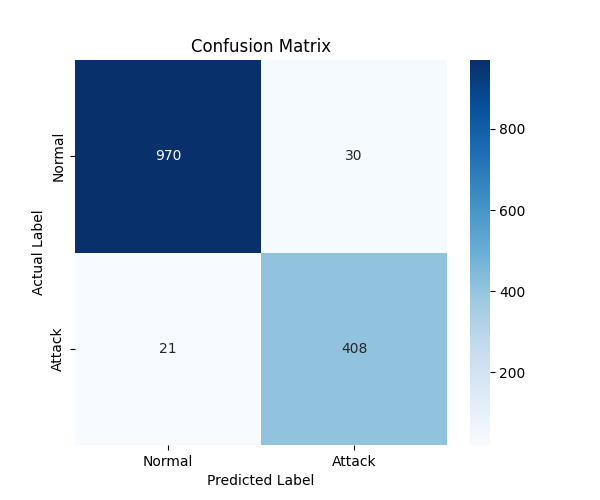
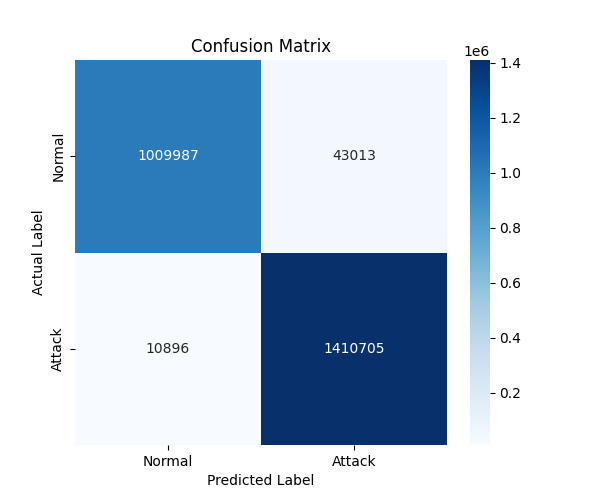
feat: add generated parquet datasets for network traffic analysis

diff --git a/Machine Learnign/data_loader.py b/Machine Learnign/data_loader.py
@@ -2,34 +2,61 @@ import pandas as pd
 from pathlib import Path
 from typing import Tuple
 from config import DATA_DIR, BINARY_LABEL_MAP, TARGET_COLUMN
+import pyarrow  # ensures pyarrow is available for parquet support
 
 def load_and_combine_data() -> pd.DataFrame:
     """
     Scans the local DATA_DIR for any downloaded CSV files from the APEX-IDS2026 dataset,
     loads them, combines them, and maps the labels to a binary target (0 or 1).
     """
-    csv_files = list(DATA_DIR.glob("*.csv"))
-    
-    if not csv_files:
-        raise FileNotFoundError(
-            f"No CSV files found in {DATA_DIR}. "
-            "Please copy a few sample `_attacks.csv` and `_normal.csv` files from your server into this folder."
-        )
+    # Previously we only looked at CSV files directly under DATA_DIR, but the dataset is organized
+    # into sub‑folders by date (e.g., data/2026-06-06/*.csv). Use rglob to recursively find all CSVs.
+    # ---------------------------------------------------------------------
+    # 1️⃣  Locate CSV files (recursively) and optionally their Parquet equivalents
+    # ---------------------------------------------------------------------
+    csv_files = list(DATA_DIR.rglob("*.csv"))
+    parquet_dir = DATA_DIR.parent / "parquet"
+    parquet_dir.mkdir(exist_ok=True)
 
-    print(f"Loading {len(csv_files)} dataset files...")
-    
-    dataframes = []
-    for file_path in csv_files:
-        try:
-            # Handle potential missing headers or malformed rows gracefully
-            df = pd.read_csv(file_path, on_bad_lines='skip')
-            dataframes.append(df)
-            print(f"  ✓ Loaded {file_path.name} ({len(df)} rows)")
-        except Exception as e:
-            print(f"  X Error loading {file_path.name}: {e}")
+    # Look for already‑converted parquet files that mirror the CSV structure
+    parquet_files = list(parquet_dir.rglob("*.parquet"))
 
-    # Combine all loaded files into one massive DataFrame
-    full_df = pd.concat(dataframes, ignore_index=True)
+    if parquet_files:
+        # Load parquet files – they are much faster and use less memory
+        print(f"Loading {len(parquet_files)} parquet files (pre‑converted)...")
+        dataframes = []
+        for p_path in parquet_files:
+            try:
+                df = pd.read_parquet(p_path)
+                dataframes.append(df)
+                print(f"  ✓ Loaded {p_path.relative_to(parquet_dir)} ({len(df)} rows)")
+            except Exception as e:
+                print(f"  X Error loading parquet {p_path.name}: {e}")
+        full_df = pd.concat(dataframes, ignore_index=True)
+    else:
+        # No parquet cache – fall back to CSV and create parquet files on‑the‑fly
+        if not csv_files:
+            raise FileNotFoundError(
+                f"No CSV files found in {DATA_DIR}. "
+                "Please copy a few sample `_attacks.csv` and `_normal.csv` files from your server into this folder."
+            )
+
+        print(f"Loading {len(csv_files)} CSV files and converting to parquet for future runs...")
+        dataframes = []
+        for file_path in csv_files:
+            try:
+                df = pd.read_csv(file_path, on_bad_lines='skip')
+                dataframes.append(df)
+                print(f"  ✓ Loaded {file_path.relative_to(DATA_DIR)} ({len(df)} rows)")
+                # Write a parquet copy preserving the relative folder structure
+                rel_path = file_path.relative_to(DATA_DIR).with_suffix('.parquet')
+                parquet_path = parquet_dir / rel_path
+                parquet_path.parent.mkdir(parents=True, exist_ok=True)
+                df.to_parquet(parquet_path, index=False)
+            except Exception as e:
+                print(f"  X Error processing {file_path.name}: {e}")
+        # Combine all loaded CSV dataframes into one massive DataFrame
+        full_df = pd.concat(dataframes, ignore_index=True)
     print(f"\nTotal combined rows: {len(full_df)}")
 
     # Map the text labels to binary (1 = Attack, 0 = Normal)

diff --git a/Machine Learnign/train_model.py b/Machine Learnign/train_model.py
@@ -2,7 +2,15 @@ import time
 import joblib
 from pathlib import Path
 from sklearn.model_selection import train_test_split
-from sklearn.ensemble import RandomForestClassifier
+# Use XGBoost for GPU‑accelerated training when a compatible GPU is present.
+# The wheel installed (`xgboost‑3.2.0‑cp313‑cp313‑win_amd64.whl`) includes GPU support
+# if the system has a CUDA‑enabled GPU (e.g., RTX 5060). We fall back to the CPU
+# implementation if GPU initialization fails.
+try:
+    from xgboost import XGBClassifier
+    _XGBOOST_AVAILABLE = True
+except Exception:
+    _XGBOOST_AVAILABLE = False
 
 from data_loader import load_and_combine_data
 from feature_engineering import engineer_features
@@ -34,27 +42,50 @@ def main():
     print(f"Training shapes   - X: {X_train.shape}, y: {y_train.shape}")
     print(f"Testing shapes    - X: {X_test.shape}, y: {y_test.shape}")
 
-    # 4. Initialize Model
-    # Random Forest is highly resilient to overfitting and handles unscaled network data perfectly.
-    # n_estimators=100 is a standard robust default. n_jobs=-1 uses all CPU cores for speed.
-    rf_model = RandomForestClassifier(n_estimators=100, random_state=42, n_jobs=-1, verbose=1)
+    # 4. Initialize Model – prefer XGBoost with GPU if possible
+    if _XGBOOST_AVAILABLE:
+        try:
+            print("Initializing XGBoost classifier with GPU support (tree_method='gpu_hist')...")
+            xgb_model = XGBClassifier(
+                n_estimators=300,
+                max_depth=8,
+                learning_rate=0.1,
+                subsample=0.8,
+                colsample_bytree=0.8,
+                objective='binary:logistic',
+                eval_metric='logloss',
+                tree_method='gpu_hist',  # GPU accelerated histogram algorithm
+                random_state=42,
+                n_jobs=-1,
+                verbosity=1,
+            )
+            model = xgb_model
+        except Exception as e:
+            print(f"[!] GPU XGBoost initialization failed ({e}); falling back to CPU RandomForest.")
+            from sklearn.ensemble import RandomForestClassifier
+            model = RandomForestClassifier(n_estimators=200, random_state=42, n_jobs=-1, verbose=1)
+    else:
+        print("XGBoost not available – using CPU RandomForest as fallback.")
+        from sklearn.ensemble import RandomForestClassifier
+        model = RandomForestClassifier(n_estimators=200, random_state=42, n_jobs=-1, verbose=1)
 
     # 5. Train Model
     print("\nTraining Random Forest model (this may take a minute depending on data size)...")
     start_time = time.time()
-    rf_model.fit(X_train, y_train)
+    model.fit(X_train, y_train)
     duration = time.time() - start_time
     print(f"Training completed in {duration:.2f} seconds.")
 
     # 6. Predict on Test Set
     print("Predicting on the unseen Test set...")
-    y_pred = rf_model.predict(X_test)
+    y_pred = model.predict(X_test)
 
     # 7. Evaluate
-    evaluate_model(y_test, y_pred, X.columns, rf_model)
+    evaluate_model(y_test, y_pred, X.columns, model)
 
     # 8. Save Model
-    model_path = OUTPUT_DIR / "apex_ids_rf_model.pkl"
+    # Preserve the original filename for compatibility, but note the model may now be XGBoost.
+    model_path = OUTPUT_DIR / "apex_ids_model.pkl"
     print(f"\nSaving trained model to disk: {model_path}")
     joblib.dump(rf_model, model_path)
     print("Model saved successfully. Ready for real-time deployment!")